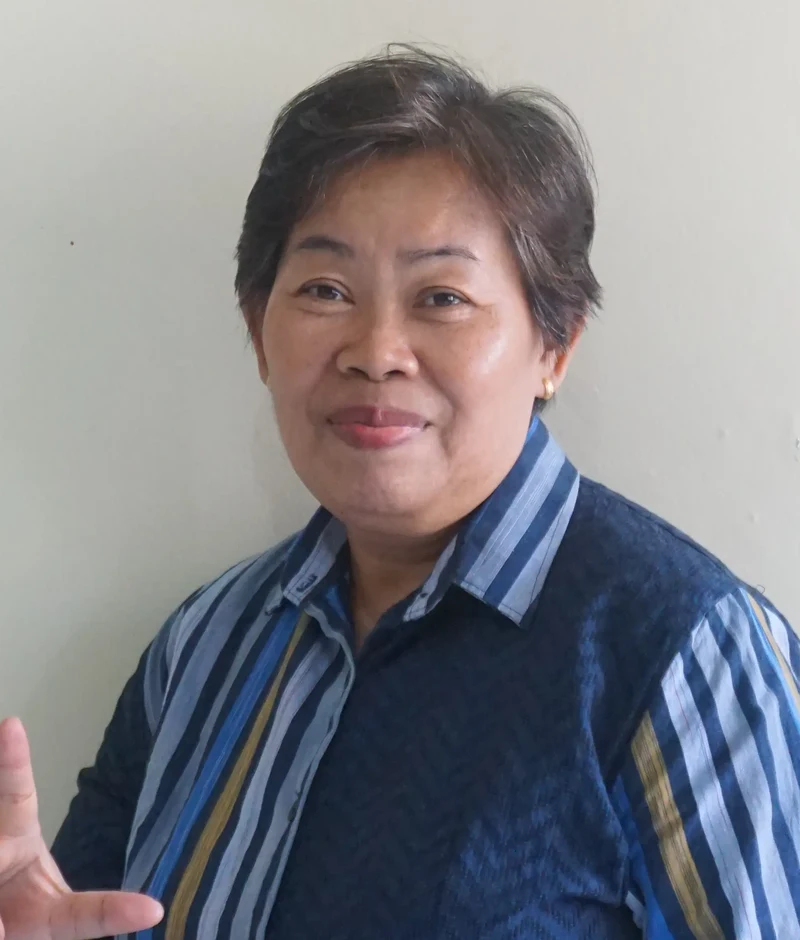
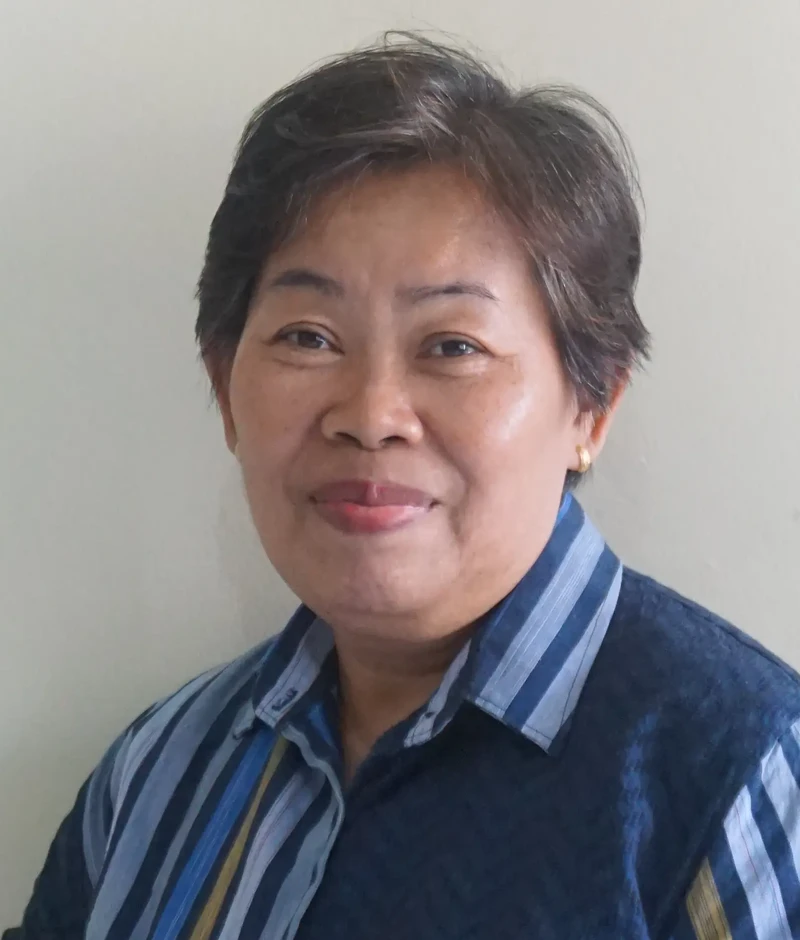
feat(gtk): standarisasi kuncian tinggi kartu 405px & kalibrasi skala foto 29 GTK

diff --git a/css/style.css b/css/style.css
@@ -9690,17 +9690,24 @@ textarea.form-control {
    CUSTOM OVERRIDES: EQUAL HEIGHT CARDS & HIGH CONTRAST PALETTE (SD LAB UKSW)
    ========================================================================= */
 
-/* 1. Equal Height Staff / Guru Cards */
+/* 1. Equal Height Staff / Guru Cards (Strict Uniform 405px Height) */
 .staff {
   display: flex !important;
   flex-direction: column !important;
-  height: 100% !important;
+  height: 405px !important;
+  min-height: 405px !important;
+  max-height: 405px !important;
   background: #ffffff !important;
   border-radius: 10px !important;
   overflow: hidden !important;
   box-shadow: 0 4px 15px rgba(0, 0, 0, 0.06) !important;
   border: 1px solid rgba(0, 0, 0, 0.05) !important;
   margin-bottom: 30px !important;
+}
+.staff > div {
+  height: 100% !important;
+  display: flex !important;
+  flex-direction: column !important;
 }
 .staff .img-wrap {
   height: 280px !important;
@@ -9721,37 +9728,44 @@ textarea.form-control {
 .staff .text {
   display: flex !important;
   flex-direction: column !important;
-  flex-grow: 1 !important;
-  justify-content: flex-start !important;
-  padding: 1.5rem !important;
+  height: 125px !important;
+  min-height: 125px !important;
+  max-height: 125px !important;
+  flex-shrink: 0 !important;
+  justify-content: center !important;
+  align-items: center !important;
+  padding: 12px 14px !important;
+  text-align: center !important;
 }
 .staff .text h3 {
-  font-size: 17px !important;
+  font-size: 16px !important;
   font-weight: 700 !important;
   color: #1e293b !important;
+  height: 48px !important;
   min-height: 48px !important;
+  max-height: 48px !important;
   display: flex !important;
   align-items: center !important;
   justify-content: center !important;
-  margin-bottom: 6px !important;
+  margin-bottom: 4px !important;
   line-height: 1.3 !important;
+  text-align: center !important;
 }
 .staff .text .position {
-  font-size: 13px !important;
+  font-size: 12px !important;
   font-weight: 700 !important;
   text-transform: uppercase !important;
   letter-spacing: 0.5px !important;
   color: #0d83ff !important;
+  height: 38px !important;
   min-height: 38px !important;
+  max-height: 38px !important;
   display: flex !important;
   align-items: center !important;
   justify-content: center !important;
-  margin-bottom: 12px !important;
-}
-.staff .text .faded {
-  opacity: 1 !important;
-  visibility: visible !important;
-  margin-top: auto !important;
+  margin-bottom: 0 !important;
+  line-height: 1.35 !important;
+  text-align: center !important;
 }
 .staff .text .faded p {
   color: #64748b !important;

diff --git a/docs/ACTIVITY_LOG.md b/docs/ACTIVITY_LOG.md
@@ -10,7 +10,7 @@ Setiap kali Admin menyetujui, menolak, atau menghapus prestasi melalui Bot Teleg
 ## 📊 RINGKASAN STATISTIK AKTIVITAS
 
 - **Total Prestasi Aktif di Website**: 7 Prestasi
-- **Total Riwayat Tercatat**: 22 Log Aktivitas
+- **Total Riwayat Tercatat**: 23 Log Aktivitas
 - **Status Server Produksi**: Online 24/7 (`sdlabubuntuserver` di UKSW Salatiga)
 - **Engine Otomasi**: Node.js Long-Polling Telegram Bot & PM2 Daemon (`sdlab-prestasi-bot`)
 - **Pembaruan Terakhir**: 28 September 2026
@@ -21,6 +21,7 @@ Setiap kali Admin menyetujui, menolak, atau menghapus prestasi melalui Bot Teleg
 
 | Waktu (WIB) | Aksi | ID | Nama Subjek / Entri | Ajang / Capaian | Kategori & Bidang | Aktor / Eksekutor | Keterangan & Masa Aktif |
 | :--- | :--- | :--- | :--- | :--- | :--- | :--- | :--- |
+| **2026-09-28 22:25 WIB** | `UPDATE_GTK` | **#-** | **Standarisasi 29 Foto & Kuncian 405px** (-) | Normalisasi Skala Wajah & Kuncian Tinggi Kartu 405px (*29 Foto Kalibrasi Presisi*) | Kepegawaian GTK | Webmaster / Admin | Normalisasi skala kepala dan porsi dada pada 29 foto (termasuk zoom-in Bu Esti, Pak Abed, Pak Guntur, Pak Bagus, Bu Tri) dan penguncian tinggi kartu 405px seragam di semua baris. |
 | **2026-09-28 22:15 WIB** | `UPDATE_GTK` | **#-** | **Grid 4 Kolom & Desain Ringkas GTK** (-) | Redesain Kartu GTK 4 Kolom & Figur Beranda (*29 Profil Minimalis*) | Kepegawaian GTK | Webmaster / Admin | Penerapan grid 4 kolom di teacher.html agar dada tampak pas, hapus teks deskripsi naratif untuk tampilan bersih, dan ganti kartu depan ke-4 ke Pak Ari Pujianto. |
 | **2026-09-28 22:05 WIB** | `UPDATE_GTK` | **#-** | **29 Pendidik & Tenaga Kependidikan** (-) | Optimalisasi Framing Foto 29 GTK & Gelar Pak Deo (*29 Personil Resmi*) | Kepegawaian GTK | Webmaster / Admin | Optimalisasi framing foto 29 GTK via AI Face Detection (bebas terbalik & bebas terpotong), penambahan gelar Albert Deo Saputra, S.Pd., dan penataan pimpinan terdepan. |
 | **2026-09-28 03:35 WIB** | `TAMBAH` | **#6** | **Kaleb Deven Kristyanto** (Kelas 6A) | Kejuaraan Catur Museum Ambarawa Cup 1 (*Juara 2 • Tingkat Provinsi*) | Olahraga Prestasi | Admin (7187970534) | Disetujui Admin. Masa aktif: Abadi (Evergreen) |

diff --git a/docs/CHANGELOG.md b/docs/CHANGELOG.md
@@ -228,6 +228,16 @@ Format pencatatan perubahan berdasar prinsip [Keep a Changelog](https://keepacha
 - **Changed**: Mengganti figur ke-4 di Beranda (`index.html`) menjadi **Ari Pujianto, S.Pd., M.Pd.** (Wali Kelas / Tim Kesiswaan) sehingga 4 kartu depan murni mewakili pimpinan dan koordinator inti sekolah.
 - **Added**: Pencatatan riwayat audit log di `docs/ACTIVITY_LOG.md` dan `data/activity_log.json`.
 
+---
+
+### 23. TAHAP 19: STANDARISASI KUNCIAN TINGGI KARTU (405PX) & KALIBRASI SKALA FOTO 29 GTK
+- **Changed**: Mengunci dimensi seluruh kartu profil GTK secara matematis pada `css/style.css` (Tinggi Kartu: 405px seragam di semua baris, Tinggi Foto: 280px, Wadah Teks: 125px, Wadah Nama: 48px, Wadah Jabatan: 38px).
+- **Fixed**: Mengkalibrasi ulang seluruh 29 foto GTK dari arsip asli resolusi tinggi dengan normalisasi skala wajah (*Face Scale Normalization*):
+  - Melakukan *zoom-in* pada foto yang tampak terlalu jauh/kecil (**Bu Esti, Pak Abed, Pak Guntur, Pak Bagus, Bu Tri**) agar proporsi kepala dan bahunya seimbang dengan rekan sejawat.
+  - Melakukan *zoom-out* proporsional pada foto yang terlalu rapat (**Pak Seto, Pak Deo, Pak Daniel**) agar bidang dada dan seragam batik lebih terbuka.
+  - Menyelaraskan *headroom* (12-15%) sehingga garis tatapan mata (*eye-line*) guru di setiap baris berada di ketinggian yang sejajar lurus.
+- **Added**: Pencatatan riwayat audit log di `docs/ACTIVITY_LOG.md` dan `data/activity_log.json`.
+
 
 
 
